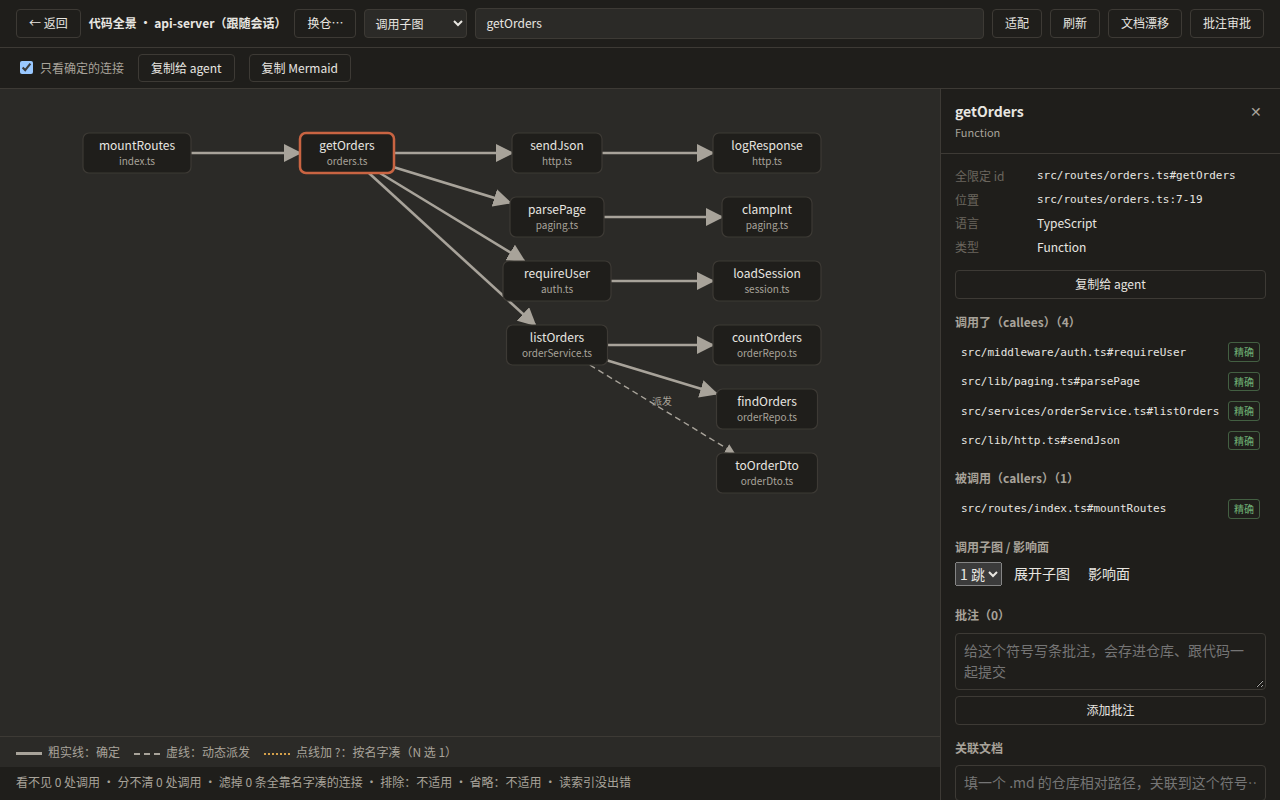
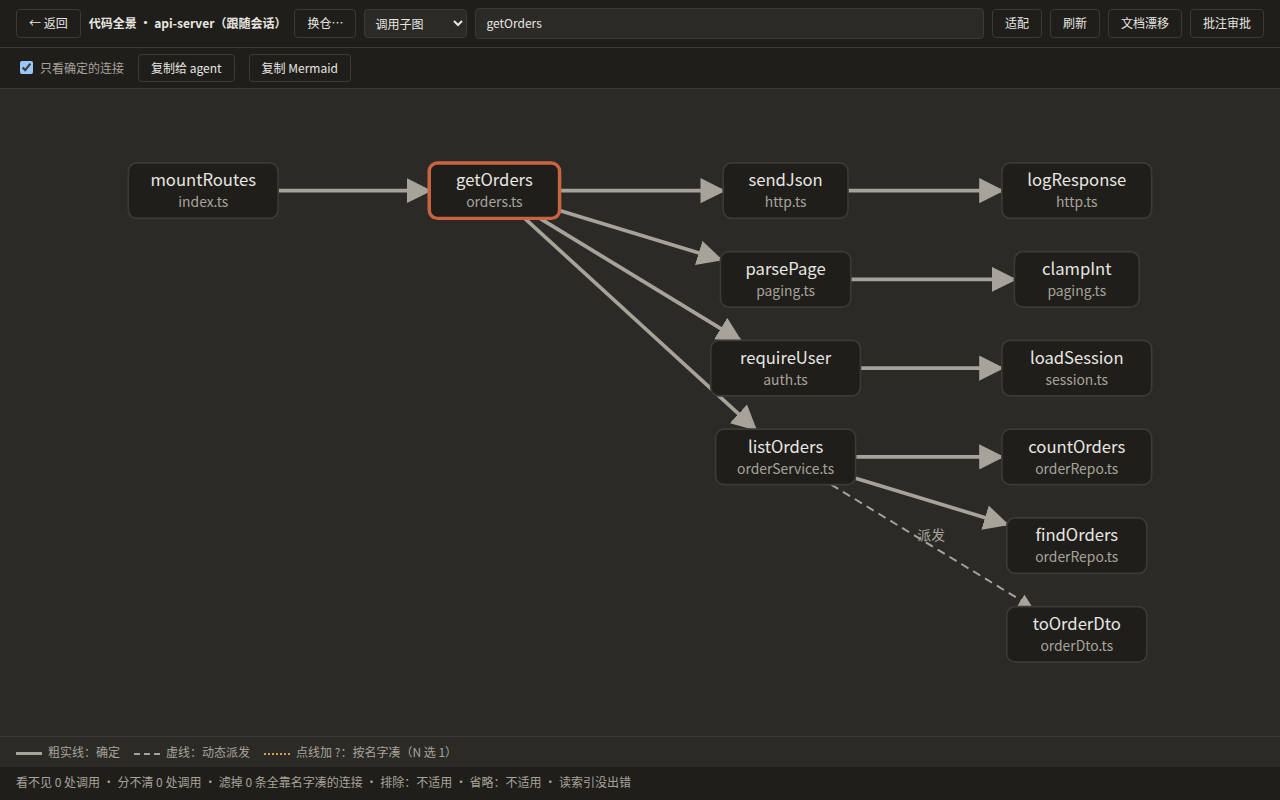
README 截图跟上主线 73b4b192：全景那张按视口铺满 ＋ 夹具随上游 Overview 形状
- 合主线（快进到 73b4b192：P3 全景缩放 / 按视口适配 · C-L5 值与汉字间空格 · P7 上游生成的线上类型）后五张全部重拍；
  main · history · machines · footprint 与上一版逐像素相同（main 只差状态栏 ctx 那一格的亚像素），panorama 换了画法
- 全景：画完调用子图后收起符号详情 ⇒ 画布变宽、图按视口重新适配铺满（`diagram-view.ts::fit`）；图下完整度读数照旧
- 夹具：overview.subsystems 补上游 `Subsystem` 的四格（member_hash · anchors · internal_edges · external_edges）；
  entry_points 的 `SymbolRef` 形状主线已补（0a3009d1a）

diff --git a/tests/evidence/README-shots.ts b/tests/evidence/README-shots.ts
@@ -103,7 +103,7 @@ const SCENES: Record<string, Scene> = {
       await page.waitForFunction((n) => document.querySelectorAll('.backend-row-state[data-on="true"]').length === n, MACHINES.length);
     },
   },
-  /** 代码全景：搜到刚改过的那个路由处理函数，画它的调用子图（右侧是符号详情，图下是完整度读数）。 */
+  /** 代码全景：搜到刚改过的那个路由处理函数，画它的调用子图，收起详情让图按视口铺满（图下是完整度读数）。 */
   panorama: {
     html: "index.html",
     async drive(page) {
@@ -117,6 +117,8 @@ const SCENES: Record<string, Scene> = {
       await page.waitForSelector('.panorama-diagram-select option[value="calls"]:not([disabled])', { state: "attached" });
       await page.selectOption(".panorama-diagram-select", "calls");
       await page.waitForSelector(".panorama-diagram-canvas svg");
+      // 收起符号详情 ⇒ 画布变宽，图按视口重新适配、铺满（`diagram-view.ts::fit`）
+      await page.click(".panorama-sidebar-close");
     },
   },
   /** 设置 → devbox → 足迹：cc-monitor 在那台机器上放了什么、现在在不在。 */

diff --git a/tests/evidence/README-shots-ipc.ts b/tests/evidence/README-shots-ipc.ts
@@ -125,7 +125,15 @@ function panorama(op: string, args: Json | null): unknown {
     case "overview":
       return {
         spine_files: panoFiles.map((f) => ({ file: f.file, score: f.symbols / 14, symbols: f.symbols })),
-        subsystems: PANO_MODULES.map((m) => ({ label: baseName(m.dir), files: m.files.map((f) => `${m.dir}/${f.name}`), size: m.files.reduce((n, f) => n + f.symbols, 0) })),
+        subsystems: PANO_MODULES.map((m, i) => ({
+          label: baseName(m.dir),
+          files: m.files.map((f) => `${m.dir}/${f.name}`),
+          size: m.files.reduce((n, f) => n + f.symbols, 0),
+          member_hash: (0x9e3779b1 * (i + 1)).toString(16).slice(-8),
+          anchors: [],
+          internal_edges: m.files.length * 3,
+          external_edges: m.files.length,
+        })),
         entry_points: [{ id: "src/routes/index.ts#mountRoutes", file: "src/routes/index.ts", symbol: "mountRoutes" }], // 〔P7〕上游 `SymbolRef`
         total_symbols: panoSymbolCount,
         total_files: panoFiles.length,
